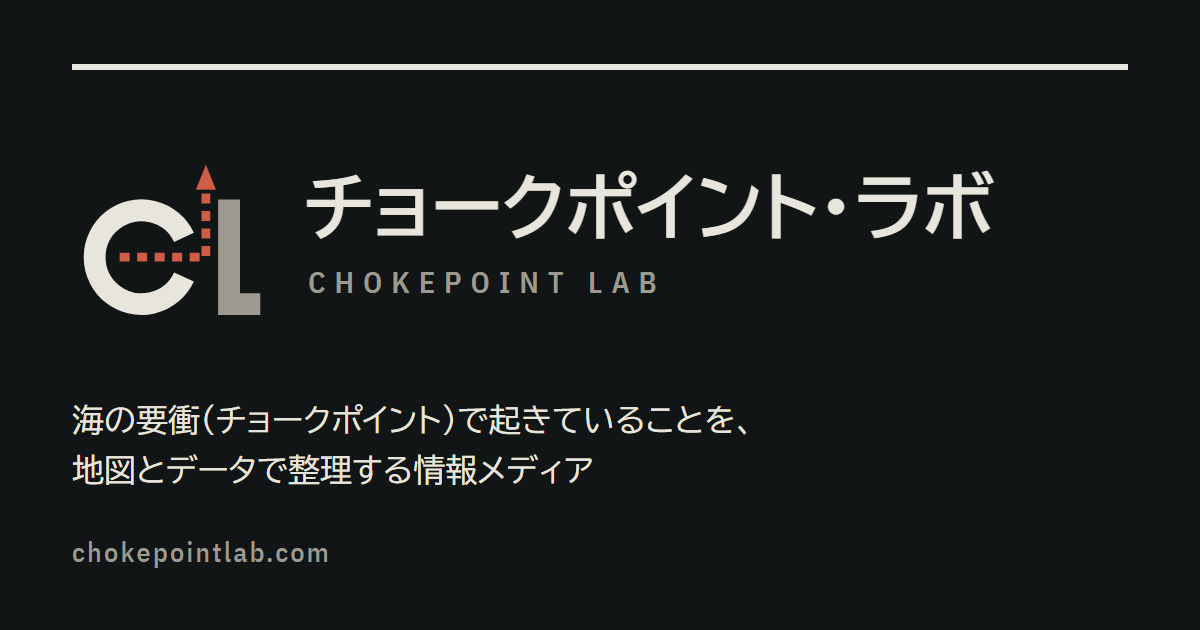
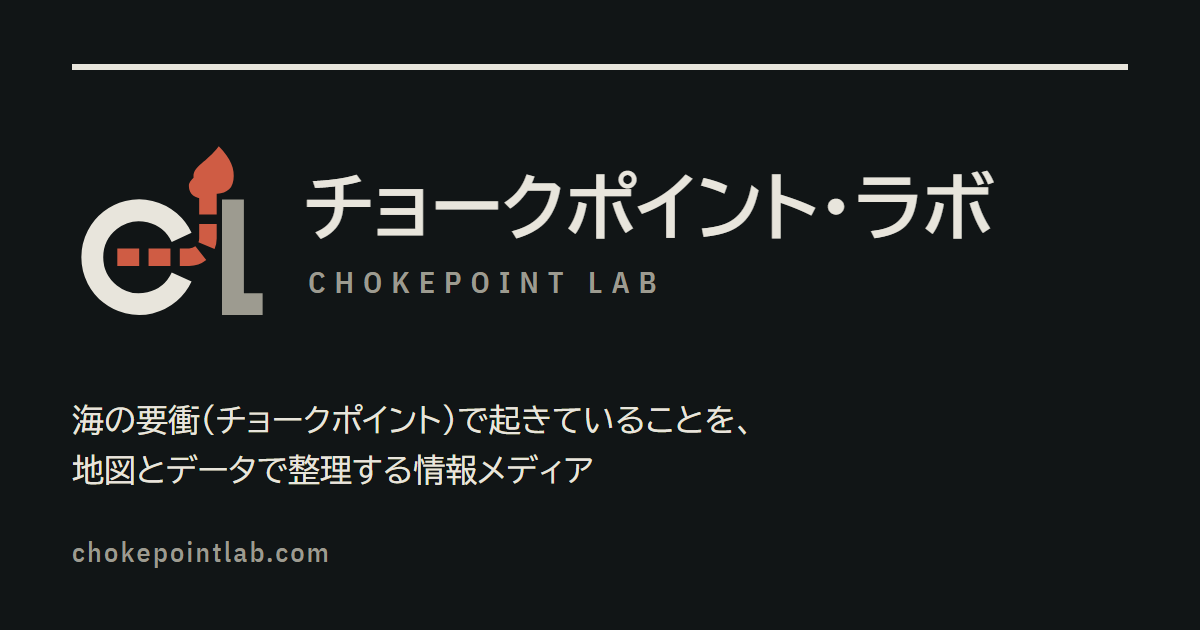
課題46 D1：印 CL2 を炎の版（cl2c）に
- 小さい画面で航路の点線が見えなかったため、線を 2 倍の太さ（2.8 → 5.6）にし、折れ目の角を丸めた
- 矢じりを炎に。山1つの炎を2つ斜めに重ね、境を地の色の線で抜く（色は差し色1色のまま）
- トップの見出しの印（index.html・hub.css）、apple-touch-icon、og:image 3枚（hub・common・hormuz）を差し替え
- favicon（16〜48px）は炎が潰れるため、これまでの簡略形のまま

Changed region(s): [[0.0617, 0.2413, 0.2158, 0.4825]]

diff --git a/docs/index.html b/docs/index.html
@@ -47,7 +47,7 @@
 <link rel="stylesheet" href="/assets/fonts/biz-udpgothic/biz-udpgothic.css">
 <link rel="stylesheet" href="/assets/fonts/ibm-plex-sans-condensed/ibm-plex-sans-condensed.css">
 <link rel="stylesheet" href="/assets/css/tokens.css?v=20261022">
-<link rel="stylesheet" href="/assets/css/hub.css?v=20261122">
+<link rel="stylesheet" href="/assets/css/hub.css?v=20261126">
 
 <script type="application/ld+json">
 {
@@ -77,9 +77,9 @@
 <div class="hub-wrap">
 
 <header class="hub-header">
-  <!-- ロゴ（課題46 D1 の印 CL2＋サイト名の横組み）。サイト名は文字のまま。印の正本は hormuz-ops/drafts/design/brand/cl2/mark-cl2-transparent.svg、色は hub.css の .hub-mark-* -->
+  <!-- ロゴ（課題46 D1 の印 CL2 の炎の版＋サイト名の横組み）。サイト名は文字のまま。印の正本は hormuz-ops/drafts/design/tools/cl_symbols.py の m-cl2c、色は hub.css の .hub-mark-* -->
   <h1 class="hub-brand">
-    <svg class="hub-mark" viewBox="0 0 64 64" width="56" height="56" aria-hidden="true" focusable="false"><g transform="translate(0.25 3.5)"><path class="hub-mark-c" d="M35.59 27.66A15 15 0 1 0 35.59 40.34"/><path class="hub-mark-l" d="M50 15.5V49H60"/><path class="hub-mark-route" d="M15 34H42.6V12"/><path class="hub-mark-head" d="M39.4 12.4L42.6 4.4L45.8 12.4Z"/></g></svg>
+    <svg class="hub-mark" viewBox="0 0 64 64" width="56" height="56" aria-hidden="true" focusable="false"><g transform="translate(-0.5 3.5)"><path class="hub-mark-c" d="M35.59 27.66A15 15 0 1 0 35.59 40.34"/><path class="hub-mark-l" d="M52 15.5V49H61.5"/><path class="hub-mark-route" d="M15 34H38A6 6 0 0 0 44 28V13"/><path class="hub-mark-flame" d="M47.46 -1.50C51.38 2.36 52.68 5.95 52.16 9.26C51.64 12.85 49.03 13.68 45.90 13.68C42.25 13.68 39.38 11.75 39.38 8.16C39.38 4.71 43.55 3.74 47.46 -1.50Z"/><path class="hub-mark-flame hub-mark-flame-front" d="M43.73 4.36C46.54 7.15 47.48 9.73 47.11 12.11C46.73 14.70 44.85 15.29 42.60 15.29C39.97 15.29 37.91 13.90 37.91 11.32C37.91 8.84 40.91 8.14 43.73 4.36Z"/></g></svg>
     <span class="hub-brand-name">チョークポイント・ラボ</span>
     <span class="hub-brand-en" lang="en">CHOKEPOINT LAB</span>
   </h1>

diff --git a/docs/assets/css/hub.css b/docs/assets/css/hub.css
@@ -25,8 +25,10 @@ a:focus-visible { outline: 2px solid var(--c-accent); outline-offset: 2px; }
 .hub-mark path { fill: none; }
 .hub-mark .hub-mark-c { stroke: var(--c-text); stroke-width: 7; }
 .hub-mark .hub-mark-l { stroke: var(--c-text-mute); stroke-width: 7; }
-.hub-mark .hub-mark-route { stroke: var(--c-accent); stroke-width: 2.8; stroke-dasharray: 3.2 2.4; }
-.hub-mark .hub-mark-head { fill: var(--c-accent); }
+.hub-mark .hub-mark-route { stroke: var(--c-accent); stroke-width: 5.6; stroke-dasharray: 7 3; }
+.hub-mark .hub-mark-flame { fill: var(--c-accent); }
+/* 手前の炎のまわりを地の色の線で抜き、奥の炎との境にする */
+.hub-mark .hub-mark-flame-front { stroke: var(--c-bg); stroke-width: 1.8; stroke-linejoin: round; paint-order: stroke; }
 .hub-brand-name { align-self: end; line-height: 1.2; letter-spacing: 0.02em; }
 .hub-brand-en { align-self: start; margin-top: 0.3em; font-family: var(--f-figure); font-weight: 600;
   font-size: 0.46em; line-height: 1.2; letter-spacing: 0.24em; color: var(--c-text-mute); }
